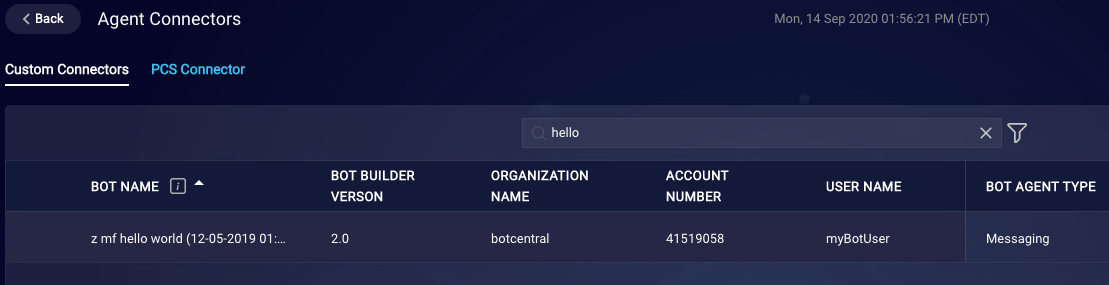
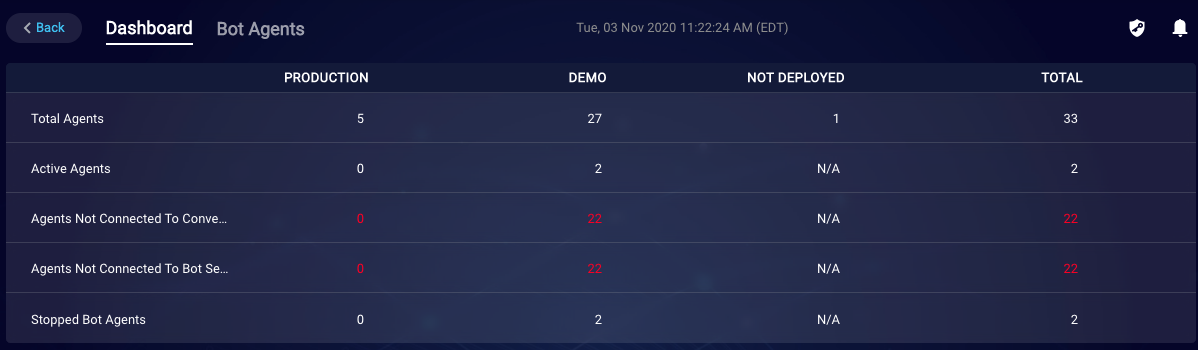
Update to reflec Bots Status enhancements

diff --git a/pages/Documents/ConversationalAI/BotsStatus/overview.md b/pages/Documents/ConversationalAI/BotsStatus/overview.md
@@ -11,11 +11,11 @@ indicator: both
 {: .important}
 Did you know that LivePerson has a Conversational AI forum for builders? Check it out [here](https://talkyard.livepersonai.com/)!
 
-Use the Bots Status application to check the status of all your bots from a single location. 
+Use the Bots Status application to check the status of all your bots from a single location, and to troubleshoot issues. 
 
 You can use the application to monitor and manage both custom bots and post-conversation survey (PCS) bots.
 
-<img class="fancyimage" style="width:1000px" src="img/ConvoBuilder/botsStatus_dashboard.png">
+<img class="fancyimage" style="width:1000px" src="img/ConvoBuilder/botsStatus_bot_agents.png">
 
 ### Access Bots Status
 
@@ -27,6 +27,12 @@ To access the Bots Status application, you must have the Bot Status Access [perm
 1. On the left sidebar in Conversational Cloud, click the <img style="width:30px" src="img/ConvoBuilder/icon_cb.png"> icon.
 2. In the Conversational AI dashboard, click **Bots Status**.
 
+### Dashboard
+
+The dashboard provides at-a-glance reporting on the status of your agents. Click any metric to access the **Bot Agents** page with the appropriate filter pre-applied.
+
+<img class="fancyimage" style="width:1000px" src="img/ConvoBuilder/botsStatus_dashboard.png">
+
 ### Statuses
 
 When monitoring bots, there are three types of statuses:
@@ -37,7 +43,7 @@ When monitoring bots, there are three types of statuses:
 
 To view a connector's statuses, scroll to the right in the dashboard.
 
-<img class="fancyimage" style="width:600px" src="img/ConvoBuilder/bots_status_statuses.png">
+<img class="fancyimage" style="width:700px" src="img/ConvoBuilder/bots_status_statuses.png">
 
 #### Bot agent connector statuses
 

diff --git a/pages/Documents/ConversationalAI/BotsStatus/managing-custom-bots.md b/pages/Documents/ConversationalAI/BotsStatus/managing-custom-bots.md
@@ -14,10 +14,10 @@ In Bots Status, you use the **Custom Connectors** tab of the **Bot Agents** page
 
 <img class="fancyimage" style="width:800px" src="img/ConvoBuilder/surveyBot_monitoring6.png">
 
-Note the following on the page:
+Use the filters in the upper-right corner to display the desired agents.
 
-* Use the filters in the upper-right corner to display the desired agents.
-* The metrics that are displayed at the top of the page reflect the entire organization. They aren't affected by the filters.
+{: .important}
+The metrics that are displayed at the top of the page reflect the entire organization. They aren't affected by the filters.
 
 ### Supporting failover
 
